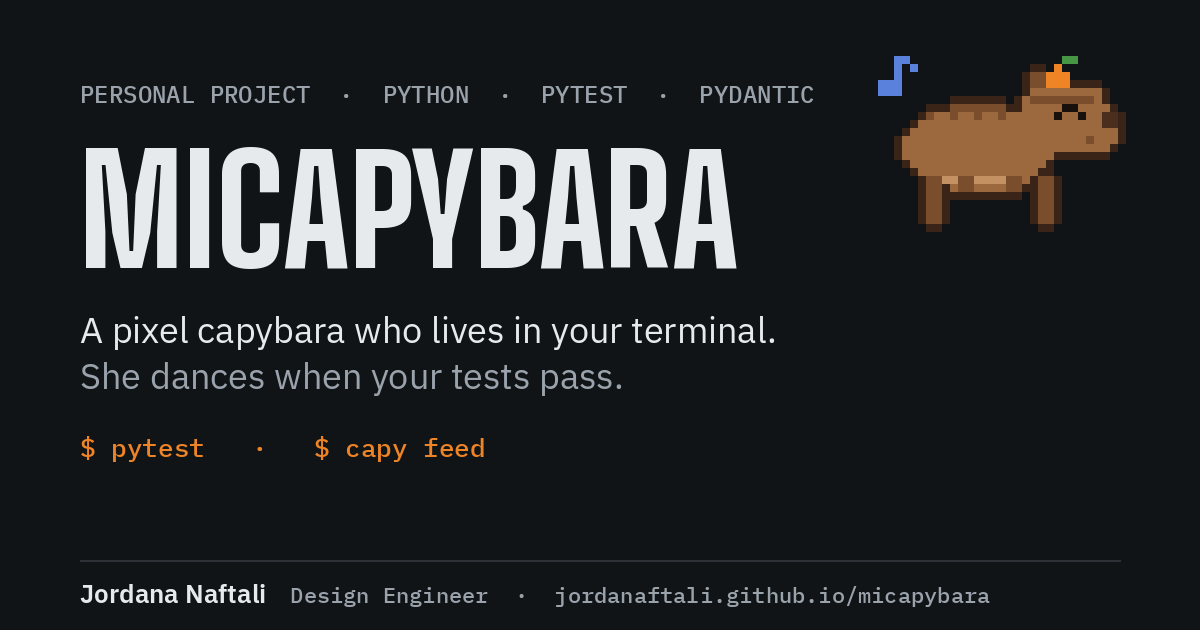
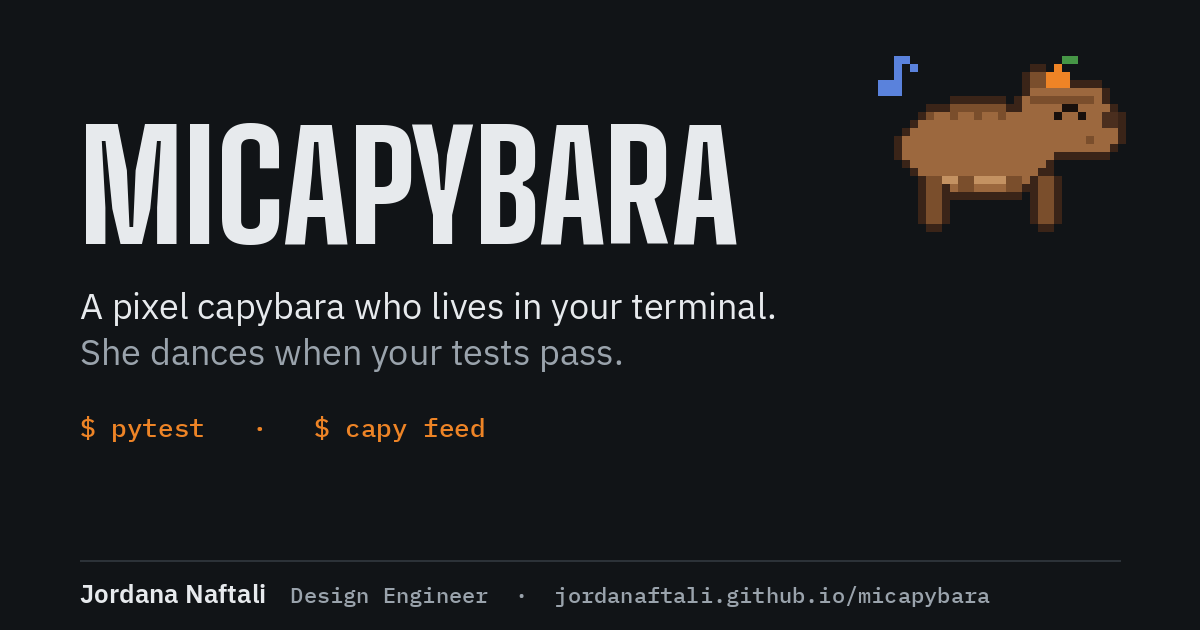
Remove the top label from the page, preview image and README
Claude-Session: https://claude.ai/code/session_01TnoTPqXhpRiAfiJDtSD3LJ

diff --git a/docs/index.html b/docs/index.html
@@ -13,14 +13,14 @@
 <meta property="og:url" content="https://jordanaftali.github.io/micapybara/">
 <meta property="og:title" content="Micapybara | Jordana Naftali">
 <meta property="og:description" content="A pixel capybara who lives in your terminal. She dances when your tests pass. A personal project in Python, pytest and Pydantic by Jordana Naftali, Design Engineer.">
-<meta property="og:image" content="https://jordanaftali.github.io/micapybara/og-image.png?v=1">
+<meta property="og:image" content="https://jordanaftali.github.io/micapybara/og-image.png?v=2">
 <meta property="og:image:width" content="1200">
 <meta property="og:image:height" content="630">
 <meta property="og:image:alt" content="Micapybara: a pixel capybara who lives in your terminal. She dances when your tests pass.">
 <meta name="twitter:card" content="summary_large_image">
 <meta name="twitter:title" content="Micapybara | Jordana Naftali">
 <meta name="twitter:description" content="A pixel capybara who lives in your terminal. She dances when your tests pass.">
-<meta name="twitter:image" content="https://jordanaftali.github.io/micapybara/og-image.png?v=1">
+<meta name="twitter:image" content="https://jordanaftali.github.io/micapybara/og-image.png?v=2">
 <link rel="preconnect" href="https://fonts.googleapis.com">
 <link rel="preconnect" href="https://fonts.gstatic.com" crossorigin>
 <link rel="stylesheet" href="https://fonts.googleapis.com/css2?family=Big+Shoulders+Display:wght@600;800&family=IBM+Plex+Sans:wght@400;500;600&family=IBM+Plex+Mono:wght@400;500&display=swap">
@@ -103,7 +103,6 @@ footer a { color: var(--ink); }
 <body>
 <div class="wrap">
   <header>
-    <div class="eyebrow">Personal project · Python · pytest · Pydantic</div>
     <h1>Micapybara</h1>
     <p class="tagline">A pixel capybara who lives in your terminal. <span>She dances when your tests pass.</span></p>
   </header>

diff --git a/art/make_images.py b/art/make_images.py
@@ -110,11 +110,10 @@ term.save(DOCS / "terminal.png", optimize=True)
 og = Image.new("RGB", (1200, 630), BG)
 d = ImageDraw.Draw(og)
 x = 80
-d.text((x, 78), "PERSONAL PROJECT  ·  PYTHON  ·  PYTEST  ·  PYDANTIC", font=font("PlexMono.ttf", 24), fill=MUTED)
-d.text((x, 120), "MICAPYBARA", font=font("BigShoulders.ttf", 150, 800), fill=INK)
-d.text((x, 306), "A pixel capybara who lives in your terminal.", font=font("PlexSans.ttf", 36, 400), fill=INK)
-d.text((x, 352), "She dances when your tests pass.", font=font("PlexSans.ttf", 36, 400), fill=MUTED)
-d.text((x, 430), "$ pytest   ·   $ capy feed", font=font("PlexMono.ttf", 26), fill=(238, 132, 38))
+d.text((x, 96), "MICAPYBARA", font=font("BigShoulders.ttf", 150, 800), fill=INK)
+d.text((x, 282), "A pixel capybara who lives in your terminal.", font=font("PlexSans.ttf", 36, 400), fill=INK)
+d.text((x, 328), "She dances when your tests pass.", font=font("PlexSans.ttf", 36, 400), fill=MUTED)
+d.text((x, 410), "$ pytest   ·   $ capy feed", font=font("PlexMono.ttf", 26), fill=(238, 132, 38))
 capy = draw(MOODS["happy"][1], 8)
 og.paste(capy, (1200 - capy.width - 50, 40), capy)
 d.line((x, 560, 1120, 560), fill=LINE, width=2)

diff --git a/README.md b/README.md
@@ -4,7 +4,7 @@
 
 A pixel capybara who lives in your terminal. She dances when your tests pass.
 
-Her name is Mica. After every `pytest` run she reads the results and reacts. Green tests make her dance, red ones make her worried, and if you don't run your tests for a couple of days, she falls asleep. A personal project in Python, pytest and Pydantic.
+Her name is Mica. After every `pytest` run she reads the results and reacts. Green tests make her dance, red ones make her worried, and if you don't run your tests for a couple of days, she falls asleep.
 
 **[Try her in your browser](https://jordanaftali.github.io/micapybara)**: run passing or failing tests, feed her an orange, or skip a few days.
 
